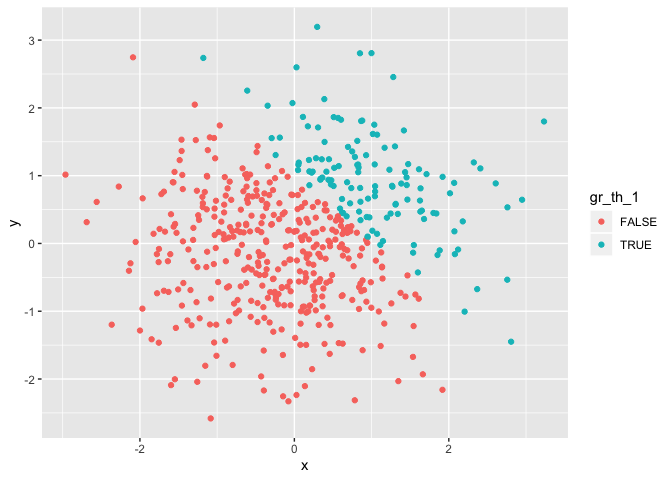
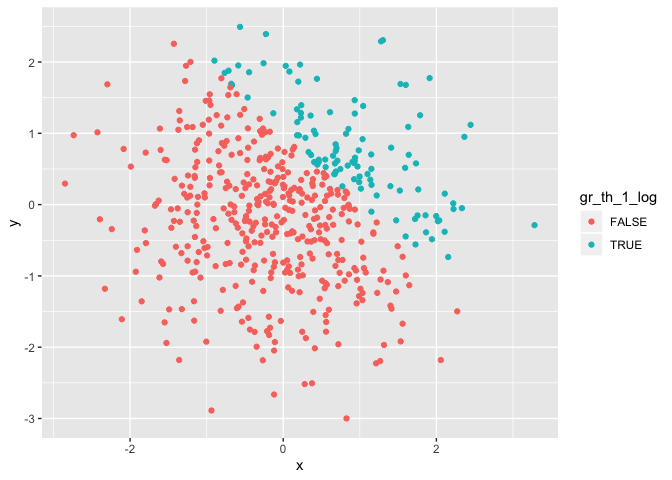
in problem 1, updated variable name for the logical vector from "gr_th_0" to gr_th_0_log" to be clearer and in problem, updated the logical vector from "gr_th_1" to gr_th_0_log

diff --git a/p8105_hw1_lk2761.md b/p8105_hw1_lk2761.md
@@ -9,9 +9,11 @@ This code chunk is used to create a data frame that consists of four
 different variables.
 
 ``` r
+set.seed(1500)
+
 sample_df = tibble(
   sample = rnorm(8),
-  gr_th_0 = sample > 0, 
+  gr_th_0_log = sample > 0, 
   vec_char_8 = c("This", "generates", "a", "sample", "of", "eight", "random", "numbers"),
   vec_factor_8 = factor(c("odd", "even", "prime", "even", "prime", "even", "odd", "even"))
 )
@@ -24,13 +26,13 @@ Now I will take the mean of each variable in the data
 mean(pull(sample_df, sample))
 ```
 
-    ## [1] -0.04588
+    ## [1] 0.004040257
 
 ``` r
-mean(pull(sample_df, gr_th_0)) 
+mean(pull(sample_df, gr_th_0_log)) 
 ```
 
-    ## [1] 0.25
+    ## [1] 0.5
 
 ``` r
 mean(pull(sample_df, vec_char_8))
@@ -58,7 +60,7 @@ character and factor variables from the sample\_df data frame to numeric
 variables.The code chunk is shown but the output is not.
 
 ``` r
-as.numeric(pull(sample_df, gr_th_0))
+as.numeric(pull(sample_df, gr_th_0_log))
 as.numeric(pull(sample_df, vec_char_8))
 ```
 
@@ -69,9 +71,9 @@ as.numeric(pull(sample_df, vec_factor_8))
 ```
 
 When the **as.numeric** function is applied to the logical variable,
-**gr\_th\_0**, the “true/false” dichotomy is converted to “0/1.” This
-explains why it was possible for the mean to be calculated for
-**gr\_th\_0**. When the function is applied to the character
+**gr\_th\_0\_log**, the “true/false” dichotomy is converted to “0/1.”
+This explains why it was possible for the mean to be calculated for
+**gr\_th\_0\_log**. When the function is applied to the character
 vector,**vec\_char\_8**, a warning message appears and reports that NAs
 were introduced by coercion. I think this occurred because the character
 vector consists of text that is different for each “level.” This
@@ -94,14 +96,15 @@ After each conversion, the random sample will be multipled by that
 result.
 
 ``` r
-gr_th_0_numeric = as.numeric(pull(sample_df, gr_th_0))
+gr_th_0_numeric = as.numeric(pull(sample_df, gr_th_0_log))
 gr_th_0_numeric*pull(sample_df, sample)
 ```
 
-    ## [1] 1.012828 0.000000 0.000000 0.000000 0.000000 0.000000 1.129448 0.000000
+    ## [1] 0.31588360 0.41255601 0.00000000 0.00000000 1.63864298 0.00000000
+    ## [7] 0.02781761 0.00000000
 
 ``` r
-gr_th_0_factor = as.factor(pull(sample_df, gr_th_0))
+gr_th_0_factor = as.factor(pull(sample_df, gr_th_0_log))
 gr_th_0_factor*pull(sample_df, sample)
 ```
 
@@ -111,13 +114,13 @@ gr_th_0_factor*pull(sample_df, sample)
     ## [1] NA NA NA NA NA NA NA NA
 
 ``` r
-gr_th_0_factor_2 = as.factor(pull(sample_df, gr_th_0))
+gr_th_0_factor_2 = as.factor(pull(sample_df, gr_th_0_log))
 gr_th_0_numeric_2 = as.numeric(gr_th_0_factor_2)
 gr_th_0_numeric_2*pull(sample_df, sample)
 ```
 
-    ## [1]  2.0256560 -0.5879194 -0.5658592 -0.6593426 -0.3751442 -0.1893268
-    ## [7]  2.2588965 -0.1317239
+    ## [1]  0.63176721  0.82511203 -0.49416107 -0.26274708  3.27728596 -0.81705092
+    ## [7]  0.05563522 -0.78861908
 
 ## Problem 2
 
@@ -126,25 +129,29 @@ This problem focuses on inline R code and plotting.
 I am creating a data frame that consists of five variables.
 
 ``` r
+set.seed(1500)
+
 plot_df = tibble(
   x = rnorm(500),
   y = rnorm(500),
-  gr_th_1 = x + y > 1,
-  gr_th_1_num = as.numeric(gr_th_1),
-  gr_th_1_fac = as.factor(gr_th_1)
+  gr_th_1_log = x + y > 1,
+  gr_th_1_num = as.numeric(gr_th_1_log),
+  gr_th_1_fac = as.factor(gr_th_1_log)
 )
 ```
 
 The size of the dataset is 500 by 5.
 
-The mean of x is 0.0175149.
+The mean of x is -0.0053386.
 
-The median of x is 0.0639242.
+The median of x is -0.0065358.
 
-The standard deviation of x is 1.0272107.
+The standard deviation of x is 0.9813252.
+
+The proportion of cases that are x + y \> 1 is
 
 This code chunk makes a scatterplot of y vs. x. The first scatterplot
-consists of color points using the logical variable, **gr\_th\_1**,
+consists of color points using the logical variable, **gr\_th\_1\_log**,
 which indicates whether x + y is greater than 1. In this scatterplot,
 the coral represents “False” and the blue represents “True.” The second
 scatterplot uses the numeric variable, **gr\_th\_1\_num**, for color
@@ -158,7 +165,7 @@ represents
 “True.”
 
 ``` r
-ggplot(plot_df, aes(x = x, y = y, color = gr_th_1)) + geom_point()
+ggplot(plot_df, aes(x = x, y = y, color = gr_th_1_log)) + geom_point()
 ```
 
 ![](p8105_hw1_lk2761_files/figure-gfm/create%20scatterplot-1.png)<!-- -->
